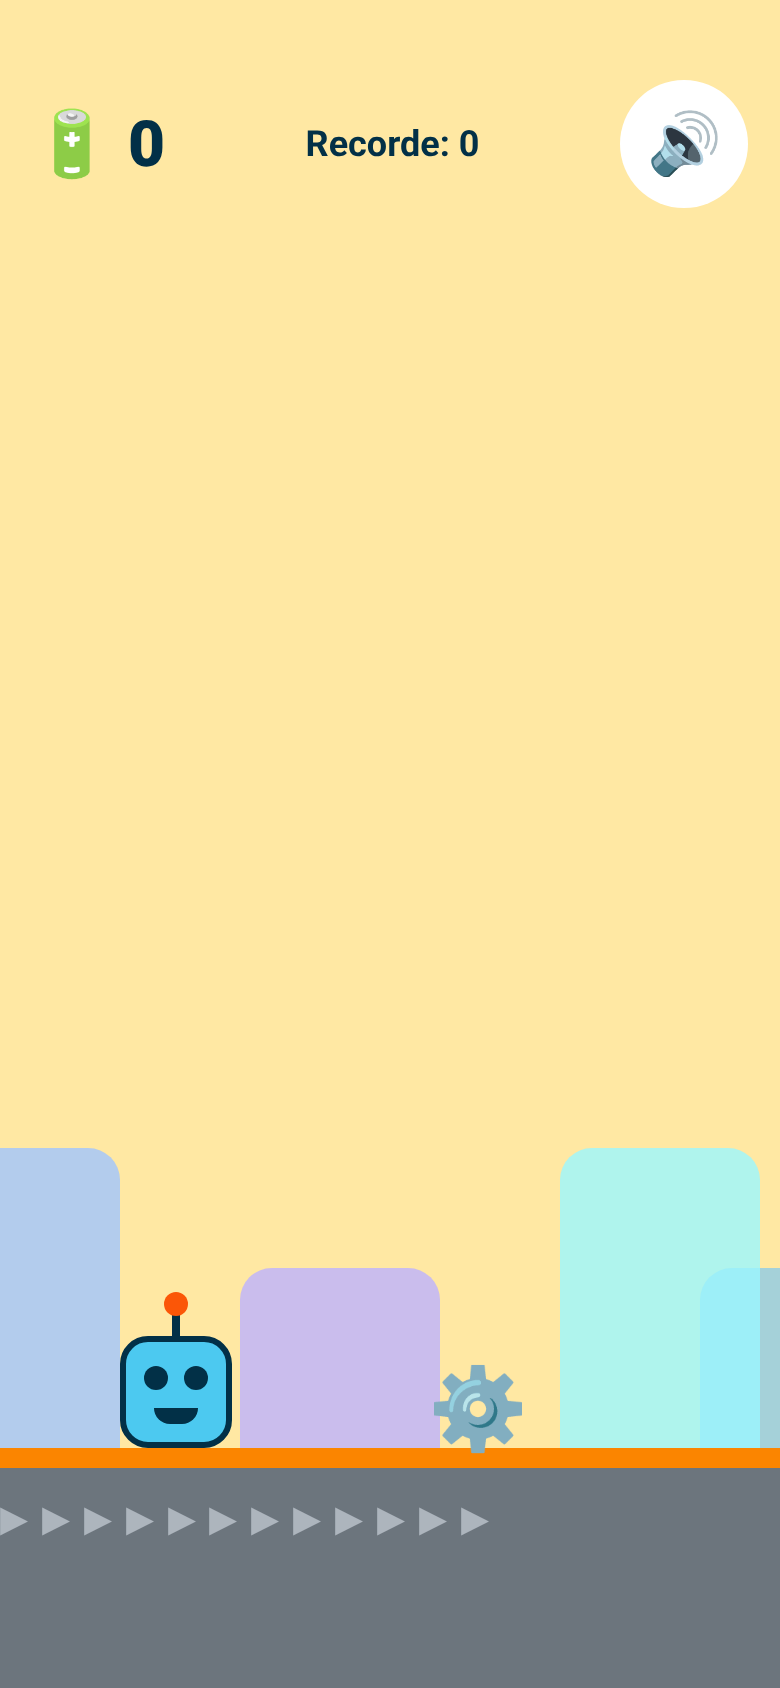
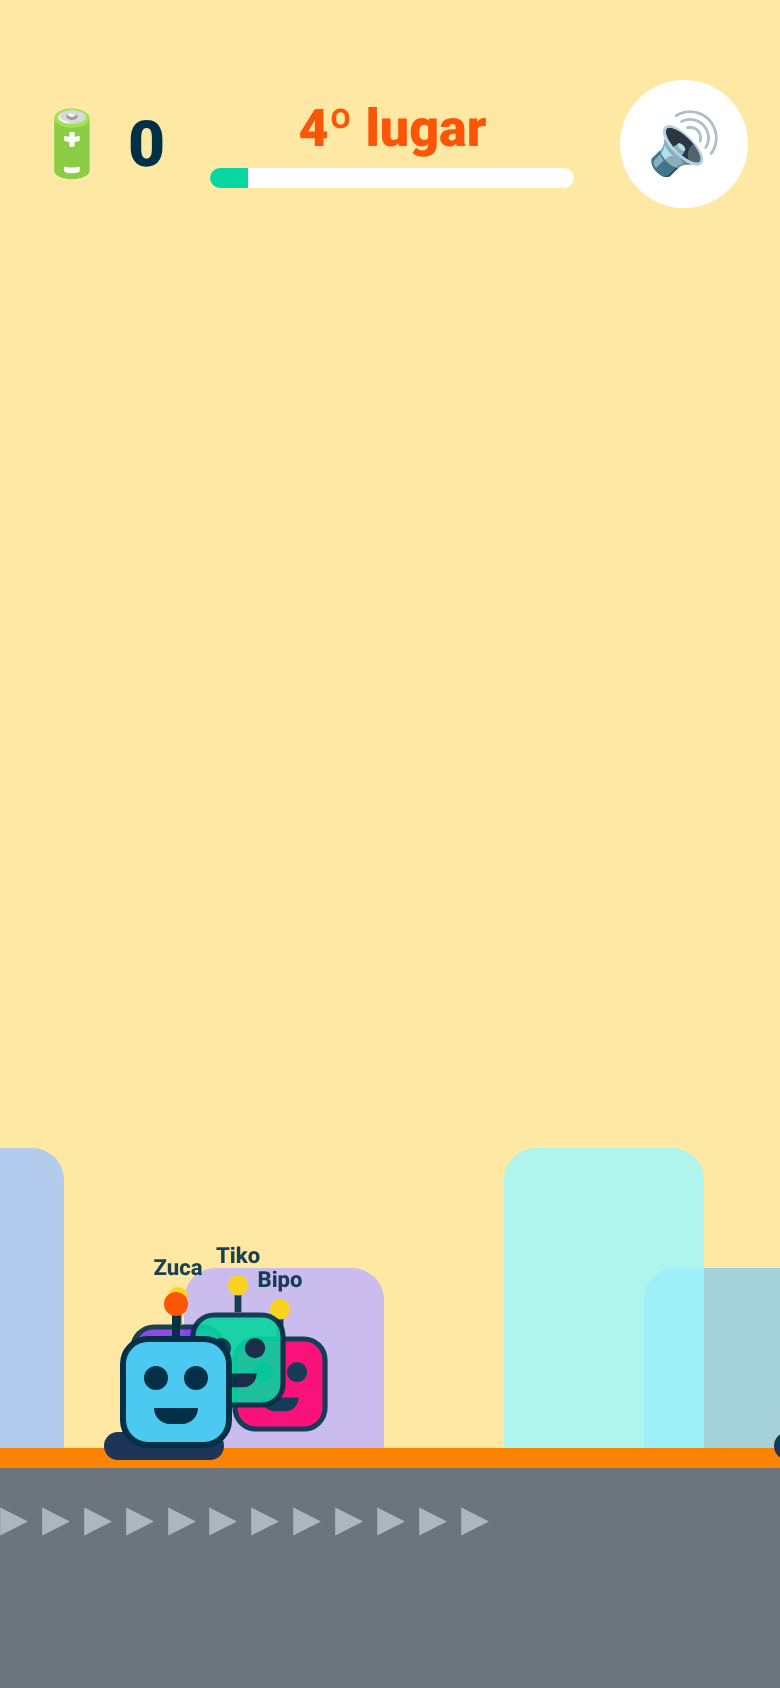
Nodex + modo corrida

diff --git a/App.tsx b/App.tsx
@@ -3,7 +3,14 @@ import { Platform, Pressable, StyleSheet, Text, View, useWindowDimensions } from
 import * as Haptics from 'expo-haptics';
 
 type Obj = { id: number; x: number; kind: 'gear' | 'oil' | 'battery'; y: number; taken?: boolean };
-type Mode = 'menu' | 'play' | 'over';
+type Mode = 'menu' | 'play' | 'over' | 'podium';
+type Rival = { name: string; color: string; d: number; v: number };
+const FINISH = 7000;
+const newRivals = (): Rival[] => [
+  { name: 'Bipo', color: '#FF006E', d: 0, v: 250 + Math.random() * 25 },
+  { name: 'Zuca', color: '#8338EC', d: 0, v: 240 + Math.random() * 25 },
+  { name: 'Tiko', color: '#06D6A0', d: 0, v: 230 + Math.random() * 25 },
+];
 
 const GROUND = 120, ROBOT = 56, GRAV = 2600, JUMP = 980;
 const BEST_KEY = 'robo-corredor-best';
@@ -38,7 +45,8 @@ export default function App() {
   const [muted, setMuted] = useState(false);
   const [best, setBest] = useState(0);
   const [, force] = useState(0);
-  const g = useRef({ y: 0, vy: 0, objs: [] as Obj[], score: 0, speed: 260, dist: 0, next: 1.2, id: 0, t: 0 });
+  const fresh = (race: boolean) => ({ y: 0, vy: 0, objs: [] as Obj[], score: 0, speed: 260, dist: 0, next: 1.2, id: 0, t: 0, race, slow: 0, boost: 0, rivals: newRivals(), place: 0 });
+  const g = useRef(fresh(false));
   const mutedRef = useRef(false); mutedRef.current = muted;
   const sfx = (f: number, d?: number, t?: string) => { if (!mutedRef.current) beep(f, d, t); };
 
@@ -60,7 +68,17 @@ export default function App() {
     const loop = (ts: number) => {
       const dt = last ? Math.min((ts - last) / 1000, 0.05) : 0; last = ts;
       const s = g.current; s.t += dt;
-      s.speed = 260 + s.t * 6;
+      if (s.race) {
+        s.slow = Math.max(0, s.slow - dt); s.boost = Math.max(0, s.boost - dt);
+        s.speed = 285 * (s.slow > 0 ? 0.5 : 1) * (s.boost > 0 ? 1.35 : 1);
+        for (const r of s.rivals) r.d += (r.v + Math.sin(s.t * 1.3 + r.v) * 40) * dt;
+      } else s.speed = 260 + s.t * 6;
+      s.dist += s.speed * dt;
+      if (s.race && s.dist >= FINISH) {
+        s.place = 1 + s.rivals.filter(r => r.d >= s.dist).length;
+        sfx(660, 0.15, 'triangle'); setTimeout(() => sfx(990, 0.3, 'triangle'), 160); buzz(60);
+        setMode('podium'); force(n => n + 1); return;
+      }
       s.vy -= GRAV * dt; s.y = Math.max(0, s.y + s.vy * dt); if (s.y === 0) s.vy = 0;
       s.next -= dt;
       if (s.next <= 0) {
@@ -76,14 +94,16 @@ export default function App() {
         const overlapX = o.x < rx + ROBOT - 10 && o.x + w > rx + 10;
         if (!overlapX || o.taken) continue;
         if (o.kind === 'battery') {
-          if (s.y + ROBOT > o.y && s.y < o.y + 40) { o.taken = true; s.score++; sfx(880, 0.1, 'triangle'); }
+          if (s.y + ROBOT > o.y && s.y < o.y + 40) { o.taken = true; s.score++; s.boost = 1.2; sfx(880, 0.1, 'triangle'); }
         } else if (s.y < (o.kind === 'oil' ? 10 : 34)) {
           sfx(200, 0.3, 'sine'); buzz(120);
+          if (s.race) { o.taken = true; s.slow = 1; continue; }
           const b = Math.max(store.get(), s.score); store.set(b); setBest(b);
           setMode('over'); force(n => n + 1); return;
         }
       }
       s.objs = s.objs.filter(o => o.x > -80 && !(o.kind === 'battery' && o.taken));
+      if (s.race && s.dist > FINISH - 400) s.next = 99;
       force(n => n + 1);
       raf = requestAnimationFrame(loop);
     };
@@ -91,14 +111,16 @@ export default function App() {
     return () => cancelAnimationFrame(raf);
   }, [mode, width]);
 
-  const start = () => { g.current = { y: 0, vy: 0, objs: [], score: 0, speed: 260, dist: 0, next: 1.2, id: 0, t: 0 }; sfx(520); buzz(); setMode('play'); };
+  const start = (race = g.current.race) => { g.current = fresh(race); sfx(520); buzz(); setMode('play'); };
   const tap = () => {
-    if (mode !== 'play') return start();
+    if (mode !== 'play') return;
     const s = g.current; buzz(15);
     if (s.y === 0) { s.vy = JUMP; sfx(440, 0.12); }
   };
 
   const s = g.current;
+  const place = 1 + s.rivals.filter(r => r.d > s.dist).length;
+  const ord = ['1º', '2º', '3º', '4º'];
   const gearRot = `${(s.t * 360) % 360}deg`;
   return (
     <View style={st.root}>
@@ -117,6 +139,13 @@ export default function App() {
           ) : (
             <Text key={o.id} style={[st.battery, { left: o.x, bottom: GROUND + o.y }]}>🔋</Text>
           ))}
+          {s.race && (() => { const fx = 60 + FINISH - s.dist; return fx < width + 20 ? <View style={[st.finish, { left: fx + ROBOT }]}><Text style={st.flag}>🏁</Text></View> : null; })()}
+          {s.race && s.rivals.map((r, i) => { const x = 60 + (r.d - s.dist); if (x < -80 || x > width + 80) return null; return (
+            <View key={r.name} style={[st.robot, { left: x, bottom: GROUND + 4 + i * 6, opacity: 0.9, transform: [{ scale: 0.85 }] }]}>
+              <View style={st.antenna} /><View style={[st.ball, { backgroundColor: '#FFD60A' }]} />
+              <View style={[st.head, { backgroundColor: r.color }]}><View style={st.eye} /><View style={st.eye} /></View>
+              <View style={st.smile} /><Text style={st.tag}>{r.name}</Text>
+            </View>); })}
           <View style={[st.robot, { left: 60, bottom: GROUND + s.y }]}>
             <View style={st.antenna} /><View style={st.ball} />
             <View style={st.head}><View style={st.eye} /><View style={st.eye} /></View>
@@ -127,7 +156,12 @@ export default function App() {
 
       <View style={st.hud} pointerEvents="box-none">
         <Text style={st.score}>🔋 {s.score}</Text>
-        <Text style={st.best}>Recorde: {best}</Text>
+        {s.race ? (
+          <View style={{ flex: 1, alignItems: 'center' }}>
+            <Text style={st.place}>{ord[place - 1]} lugar</Text>
+            <View style={st.bar}><View style={[st.barFill, { width: `${Math.min(100, (s.dist / FINISH) * 100)}%` }]} /></View>
+          </View>
+        ) : <Text style={st.best}>Recorde: {best}</Text>}
         <Pressable style={st.mute} onPress={() => setMuted(m => !m)} accessibilityLabel={muted ? 'Ligar som' : 'Desligar som'}>
           <Text style={{ fontSize: 30 }}>{muted ? '🔇' : '🔊'}</Text>
         </Pressable>
@@ -136,9 +170,24 @@ export default function App() {
       {mode !== 'play' && (
         <View style={st.overlay} pointerEvents="box-none">
           <View style={st.card}>
-            <Text style={st.title}>{mode === 'menu' ? 'Nodex: Robô Corredor' : 'Tente de novo! 😄'}</Text>
-            <Text style={st.sub}>{mode === 'menu' ? 'Toque na tela para o Nodex pular as engrenagens e o óleo. Pegue baterias!' : `O Nodex pegou ${s.score} bateria${s.score === 1 ? '' : 's'}! Recorde: ${best}`}</Text>
-            <Pressable style={st.btn} onPress={start}><Text style={st.btnText}>{mode === 'menu' ? '▶ Jogar' : '↻ Jogar de novo'}</Text></Pressable>
+            {mode === 'podium' ? (<>
+              <Text style={st.title}>{s.place === 1 ? 'Nodex venceu! 🏆' : 'Que corrida! 🎉'}</Text>
+              <View style={st.podium}>
+                {(() => { const list = [{ name: 'Nodex', color: '#4CC9F0', d: s.dist + (s.place === 1 ? 1e6 : 0) }, ...s.rivals].sort((x, y) => y.d - x.d); const top = list.slice(0, 3); const order = [top[1], top[0], top[2]]; const h = [70, 100, 50];
+                  return order.map((r, i) => r && (
+                    <View key={r.name} style={{ alignItems: 'center', marginHorizontal: 6 }}>
+                      <Text style={{ fontSize: 16, fontWeight: '800', color: '#023047' }}>{r.name}</Text>
+                      <View style={[st.mini, { backgroundColor: r.color }]} />
+                      <View style={[st.step, { height: h[i] }]}><Text style={st.stepText}>{['2º', '1º', '3º'][i]}</Text></View>
+                    </View>)); })()}
+              </View>
+              <Text style={st.sub}>Nodex chegou em {ord[s.place - 1]} lugar e pegou {s.score} bateria{s.score === 1 ? '' : 's'}!</Text>
+            </>) : (<>
+              <Text style={st.title}>{mode === 'menu' ? 'Nodex: Robô Corredor' : 'Tente de novo! 😄'}</Text>
+              <Text style={st.sub}>{mode === 'menu' ? 'Toque na tela para o Nodex pular as engrenagens e o óleo. Pegue baterias!' : `O Nodex pegou ${s.score} bateria${s.score === 1 ? '' : 's'}! Recorde: ${best}`}</Text>
+            </>)}
+            <Pressable style={st.btn} onPress={() => start(true)}><Text style={st.btnText}>🏁 Corrida</Text></Pressable>
+            <Pressable style={[st.btn, { backgroundColor: '#219EBC', marginTop: 14 }]} onPress={() => start(false)}><Text style={st.btnText}>∞ Sem fim</Text></Pressable>
           </View>
         </View>
       )}
@@ -170,5 +219,15 @@ const st = StyleSheet.create({
   title: { fontSize: 34, fontWeight: '900', color: '#FB5607', textAlign: 'center' },
   sub: { fontSize: 20, color: '#023047', textAlign: 'center', marginVertical: 18 },
   btn: { backgroundColor: '#06D6A0', borderRadius: 40, paddingVertical: 22, paddingHorizontal: 40, minWidth: 240, alignItems: 'center' },
+  place: { fontSize: 26, fontWeight: '900', color: '#FB5607' },
+  bar: { width: '80%', height: 10, borderRadius: 5, backgroundColor: '#fff', marginTop: 4, overflow: 'hidden' },
+  barFill: { height: 10, backgroundColor: '#06D6A0' },
+  finish: { position: 'absolute', bottom: GROUND, width: 14, height: 160, backgroundColor: '#fff', borderWidth: 3, borderColor: '#023047' },
+  flag: { position: 'absolute', top: -40, left: -6, fontSize: 36 },
+  tag: { position: 'absolute', top: -40, fontSize: 13, fontWeight: '800', color: '#023047' },
+  podium: { flexDirection: 'row', alignItems: 'flex-end', marginTop: 16 },
+  mini: { width: 34, height: 34, borderRadius: 8, borderWidth: 3, borderColor: '#023047', marginVertical: 4 },
+  step: { width: 70, backgroundColor: '#FFB703', borderTopLeftRadius: 10, borderTopRightRadius: 10, alignItems: 'center', justifyContent: 'center' },
+  stepText: { fontSize: 22, fontWeight: '900', color: '#fff' },
   btnText: { fontSize: 28, fontWeight: '900', color: '#fff' },
 });
